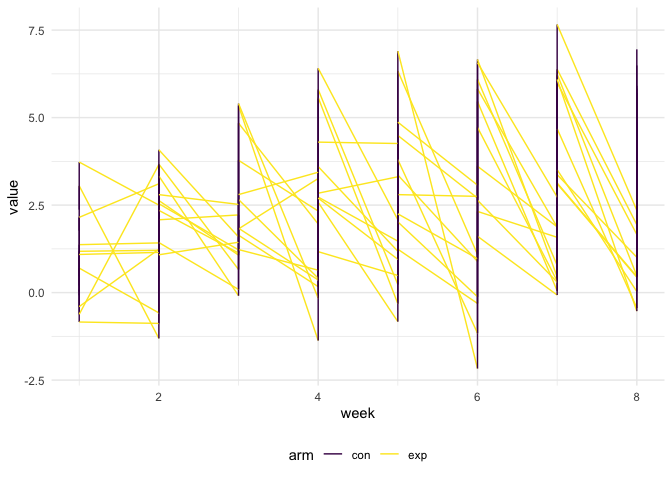
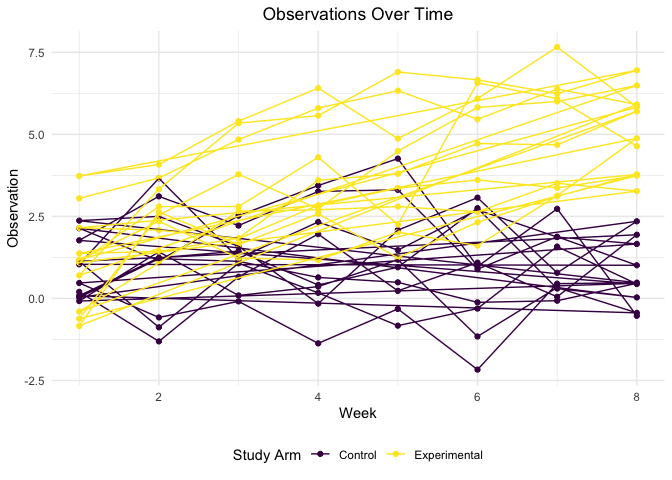
Editing plot in problem 2

diff --git a/p8105_hw5_sm4594.md b/p8105_hw5_sm4594.md
@@ -73,40 +73,23 @@ complete = tibble(
   select(-values, -week_label) %>% 
   mutate(
     id = as.numeric(id),
-    week = as.numeric(week))
-  
+    week = as.numeric(week),
+    arm = recode(arm, con = "Control", exp = "Experimental" ))
+
 complete = as.data.frame(complete)
 
 ggplot(complete, aes(x = week, y = value)) +
-geom_line(aes(group = id, color = arm))
+geom_point(aes(group = id, color = arm)) +
+geom_path(aes(color = arm)) +
+labs(
+    title = "Observations Over Time",
+    x = "Week",
+    y = "Observation",
+    color = "Study Arm") +
+theme(plot.title = element_text(hjust = 0.5))
 ```
 
 ![](p8105_hw5_sm4594_files/figure-gfm/list_files-1.png)<!-- -->
-
-``` r
-#extra
-
-complete %>% 
-  filter(arm == "con") %>% 
-  ggplot(aes(x = week, y = value)) +
-  geom_line(aes(group = id, color = arm))
-```
-
-![](p8105_hw5_sm4594_files/figure-gfm/list_files-2.png)<!-- -->
-
-``` r
-complete %>% 
-  filter(arm == "exp") %>% 
-  ggplot(aes(x = week, y = value)) +
-  geom_line(aes(group = id))
-```
-
-![](p8105_hw5_sm4594_files/figure-gfm/list_files-3.png)<!-- -->
-
-``` r
-#geom_point
-#geom_path
-```
 
 # Problem 3
 
